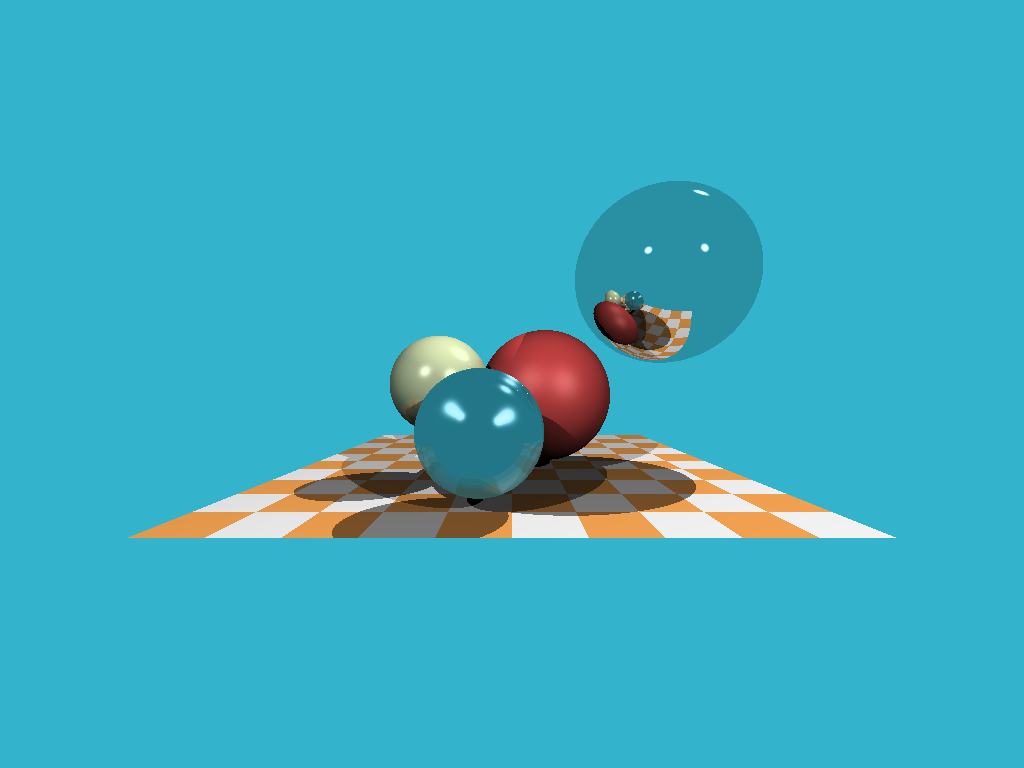
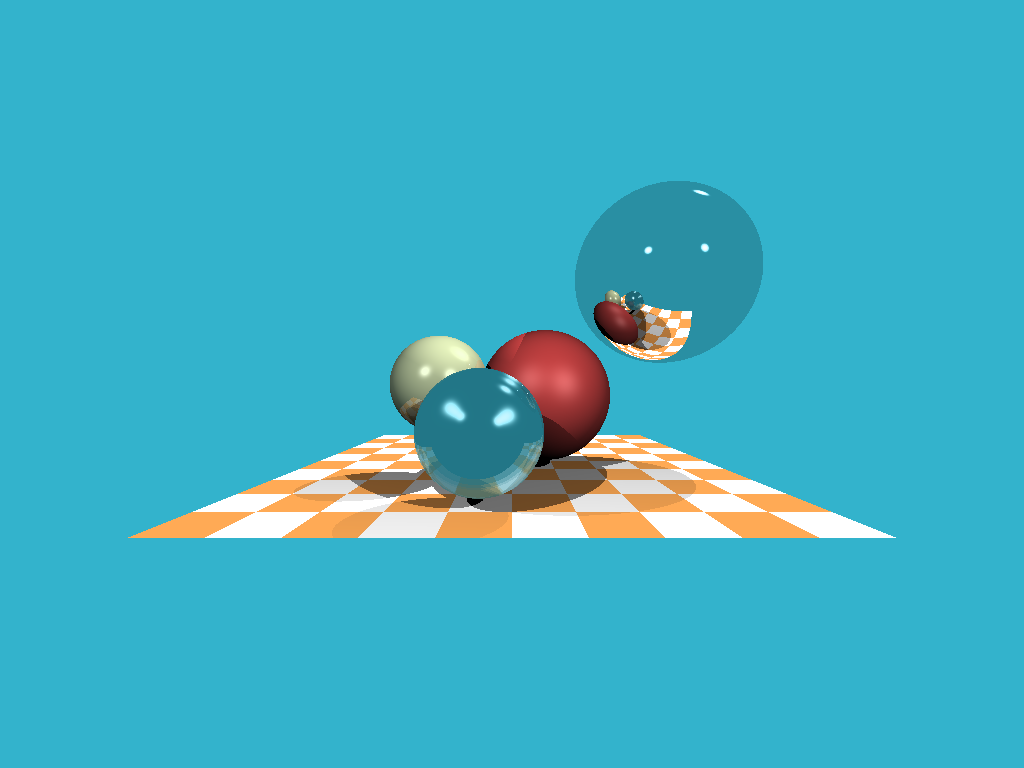
checkpoint

Changed region(s): [[0.125, 0.5625, 0.6875, 0.7188], [0.5938, 0.375, 0.6875, 0.4688]]

diff --git a/vector/vector.go b/vector/vector.go
@@ -152,7 +152,7 @@ func CastRay(orig Vector, dir Vector, spheres []Sphere, lights []Light, depth in
 
 	material := Material{
 		RefractIdx:   1.0,
-		Albedo:       V4{X: 1.0, Y: 0, Z: 0, A: 0},
+		Albedo:       V4{X: 2.0, Y: 0, Z: 0, A: 0},
 		DiffuseColor: Vector{X: 0.0, Y: 0, Z: 0},
 		SpecularExp:  0.0,
 	}
@@ -199,7 +199,12 @@ func CastRay(orig Vector, dir Vector, spheres []Sphere, lights []Light, depth in
 		shadow_pt := Vector{0, 0, 0}
 		shadow_N := Vector{0, 0, 0}
 
-		tmpmaterial := Material{}
+		tmpmaterial := Material{
+			RefractIdx:   1.0,
+			Albedo:       V4{X: 2.0, Y: 0, Z: 0, A: 0},
+			DiffuseColor: Vector{X: 0.0, Y: 0, Z: 0},
+			SpecularExp:  0.0,
+		}
 		if SceneIntersect(shadow_orig, light_dir, spheres, &shadow_pt, &shadow_N, &tmpmaterial) &&
 			(shadow_pt.Sub(shadow_orig)).Norm() < light_distance {
 			continue
@@ -225,6 +230,22 @@ func Reflect(I Vector, N Vector) Vector {
 	return I.Sub(N.MulS(2.0 * I.Dot(N)))
 }
 
+// func Refract(I Vector, N Vector, eta_t float64, eta_i float64) Vector { // Snell's law
+// 	cosi := -math.Max(-1.0, math.Min(1.0, I.Dot(N)))
+
+// 	if cosi < 0 {
+// 		return Refract(I, N.Neg(), eta_i, eta_t)
+// 	} // if the ray comes from the inside the object, swap the air and the media
+// 	eta := eta_i / eta_t
+
+// 	k := 1 - eta*eta*(1-cosi*cosi)
+// 	tmpk := Vector{1, 0, 0}
+// 	if (k < 0) == false {
+// 		tmpk = I.MulS(eta).Add(N.MulS((eta*cosi - math.Sqrt(k))))
+// 	}
+// 	return tmpk
+// }
+
 func Refract(I Vector, N Vector, eta_t float64, eta_i float64) Vector { // Snell's law
 	cosi := -math.Max(-1.0, math.Min(1.0, I.Dot(N)))
 
@@ -235,7 +256,7 @@ func Refract(I Vector, N Vector, eta_t float64, eta_i float64) Vector { // Snell
 
 	k := 1 - eta*eta*(1-cosi*cosi)
 	tmpk := Vector{1, 0, 0}
-	if (k < 0) == false {
+	if !(k < 0) {
 		tmpk = I.MulS(eta).Add(N.MulS((eta*cosi - math.Sqrt(k))))
 	}
 	return tmpk
